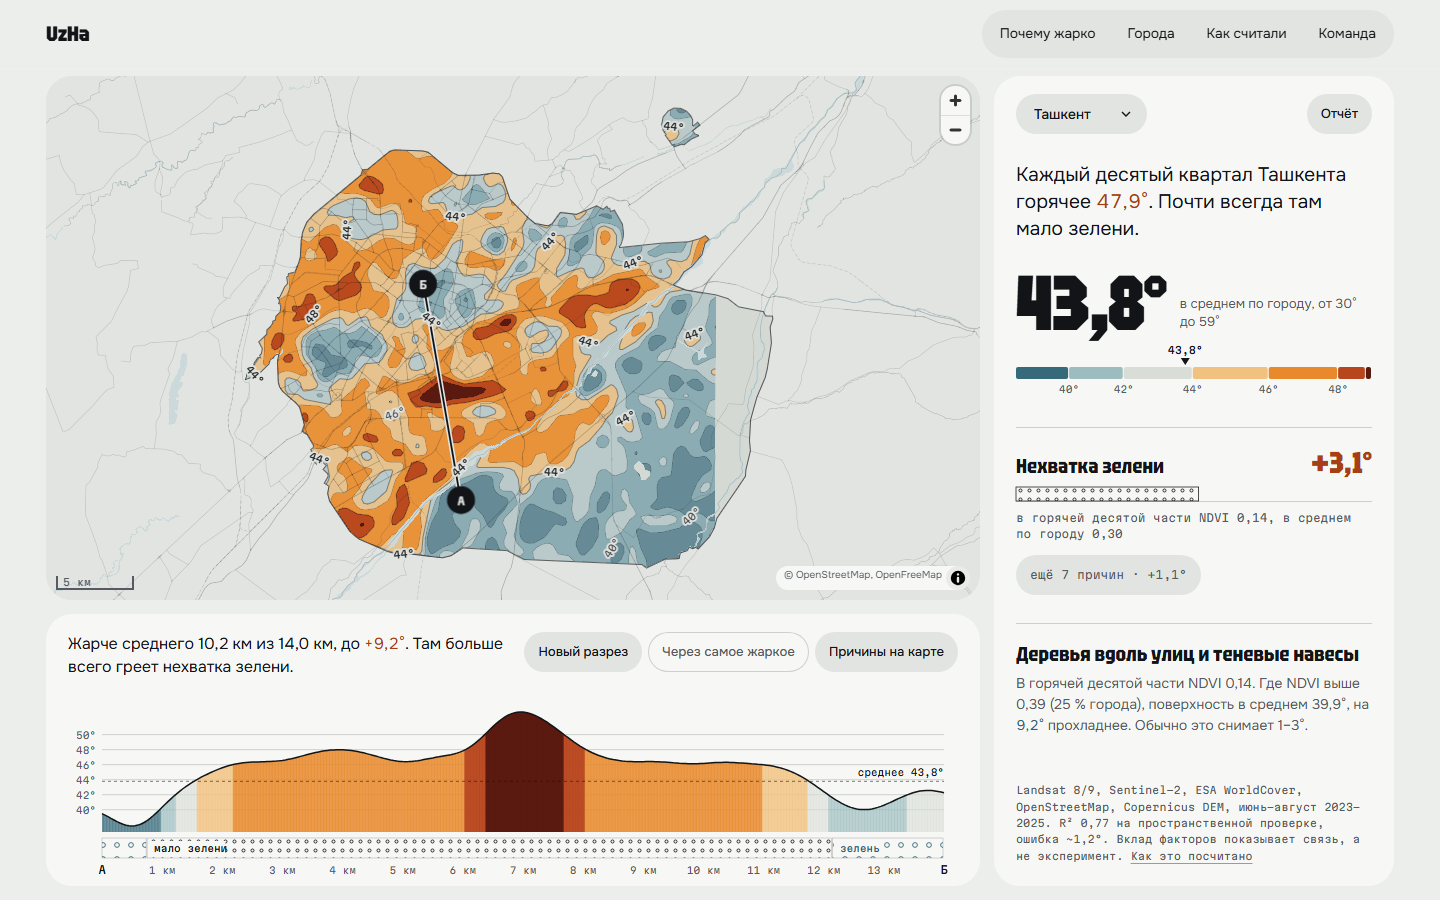
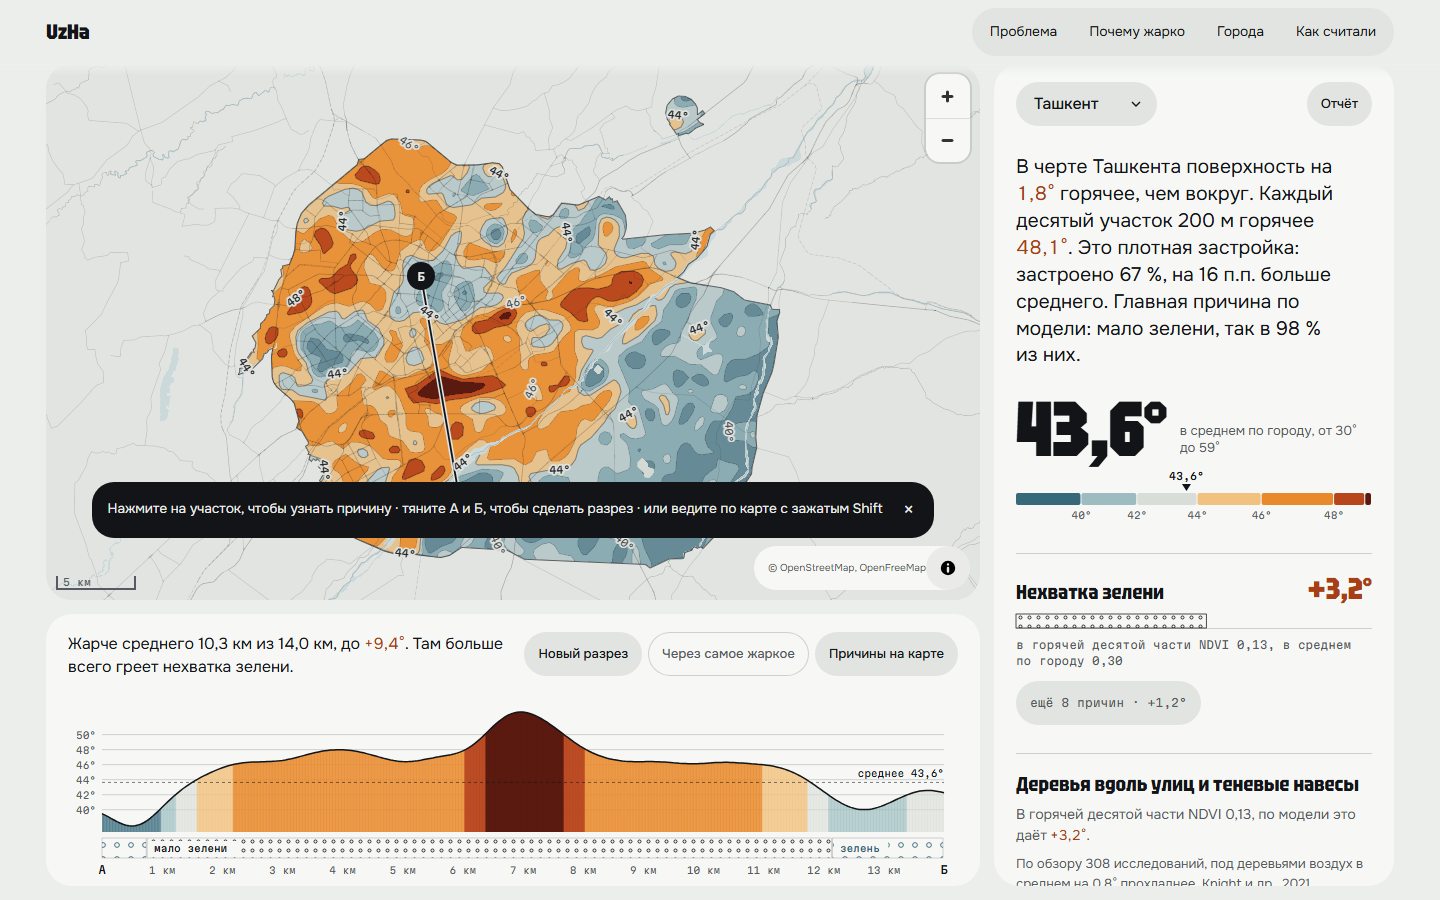
docs: readme with results, screenshots and how to run (#16)

diff --git a/README.md b/README.md
@@ -1,7 +1,86 @@
-# UzHa — Urban Heat Islands of Uzbekistan
+# UzHa: острова тепла городов Узбекистана
 
-Where do cities of Uzbekistan overheat in summer, and why? UzHa combines satellite land-surface
-temperature with land-cover, vegetation, terrain and OpenStreetMap data, measures how much each
-factor heats or cools every 200 m of the city, and turns that into place-specific recommendations.
+Карта летнего перегрева Ташкента, Самарканда и Бухары по спутниковым снимкам. Для каждого участка 200 × 200 м
+показывает, насколько там горячо, что именно греет это место и что с этим можно сделать.
 
-Work in progress — see issues.
+**Сайт:** https://uzha.mydevbox.xyz
+
+![Главная](docs/screenshots/00-landing.png)
+
+## Что получилось
+
+Поверхность внутри черты города летом горячее, чем в кольце вокруг:
+
+| | Остров тепла | Средняя поверхность | Точность модели (R², пространственная проверка) |
+|---|---|---|---|
+| Ташкент | +1,8° | 43,6° | 0,77 |
+| Самарканд | +1,4° | 42,7° | 0,76 |
+| Бухара | +3,0° | 41,1° | 0,66 |
+
+Везде сильнее всего на температуру влияет зелень, но горячие места у городов разные. В Ташкенте это плотная
+застройка без деревьев. В Самарканде открытая, почти незастроенная земля. В Бухаре застройка вперемешку с голым грунтом.
+
+Это температура самой поверхности по снимкам около 11 утра, а не температура воздуха.
+
+## Как пользоваться
+
+![Карта Ташкента: изотермы и разрез](docs/screenshots/01-city.png)
+
+- Цвет означает только градусы, линии проведены через каждые 2°.
+- Щелчок по месту показывает его температуру, главную причину и меру, которая подходит именно здесь.
+- Линия А–Б строит разрез: профиль температуры и полосу причин под ним. Причины нарисованы штриховкой.
+- «Отчёт» собирает страницу для печати. Данные города можно скачать в CSV или GeoJSON.
+
+![Разрез и причины](docs/screenshots/03-transect.png)
+
+На телефоне:
+
+<img src="docs/screenshots/04-mobile.png" width="320" alt="Главная на телефоне">
+
+## Как посчитано
+
+1. Сетка 200 м в зоне UTM города, граница города из OpenStreetMap и кольцо 1,5 км вокруг.
+2. Температура поверхности: медиана безоблачных снимков Landsat 8/9 (NASA/USGS, Collection 2 Level-2),
+   июнь–август 2023–2025.
+3. Факторы: зелень (NDVI) и альбедо по Sentinel-2, доли деревьев, застройки и голого грунта по ESA WorldCover,
+   высота по Copernicus DEM, дороги, здания и вода из OpenStreetMap.
+4. Модель XGBoost. Точность проверена на целых блоках 2 × 2 км, которых модель не видела.
+5. Вклад каждого фактора в каждом участке считается через SHAP, в градусах.
+
+Подробнее: [pipeline/README.md](pipeline/README.md), формат данных: [docs/data-contract.md](docs/data-contract.md),
+зачем это нужно: [docs/problem.md](docs/problem.md).
+
+Ограничения. Снимки сделаны около 11 утра, ночной жары они не видят. Вклад факторов показывает связь, найденную
+моделью, а не результат эксперимента. Эффект мер оценён по опубликованным исследованиям, ссылки есть прямо в карточках.
+
+## Запуск
+
+Сайт (статический, без бэкенда):
+
+```bash
+cd web
+npm ci
+npm run dev        # http://localhost:5173
+npm test
+npm run build      # результат в web/dist
+```
+
+Пересчёт данных (Python 3.10+, ключи не нужны):
+
+```bash
+pip install -r pipeline/requirements.txt
+PYTHONUTF8=1 python -m pipeline.run --all     # или --city tashkent
+python -m pytest pipeline/tests -q
+```
+
+Готовые данные лежат в `web/public/data/`, так что для сайта пайплайн запускать не обязательно.
+Хостинг описан в [docs/deploy.md](docs/deploy.md).
+
+## Стек
+
+Python, rasterio, XGBoost, Microsoft Planetary Computer · Vite, React, TypeScript, MapLibre GL, d3-contour, Vitest ·
+nginx и Cloudflare Tunnel.
+
+## Команда
+
+Амира, Олия, Макс, Степан.
